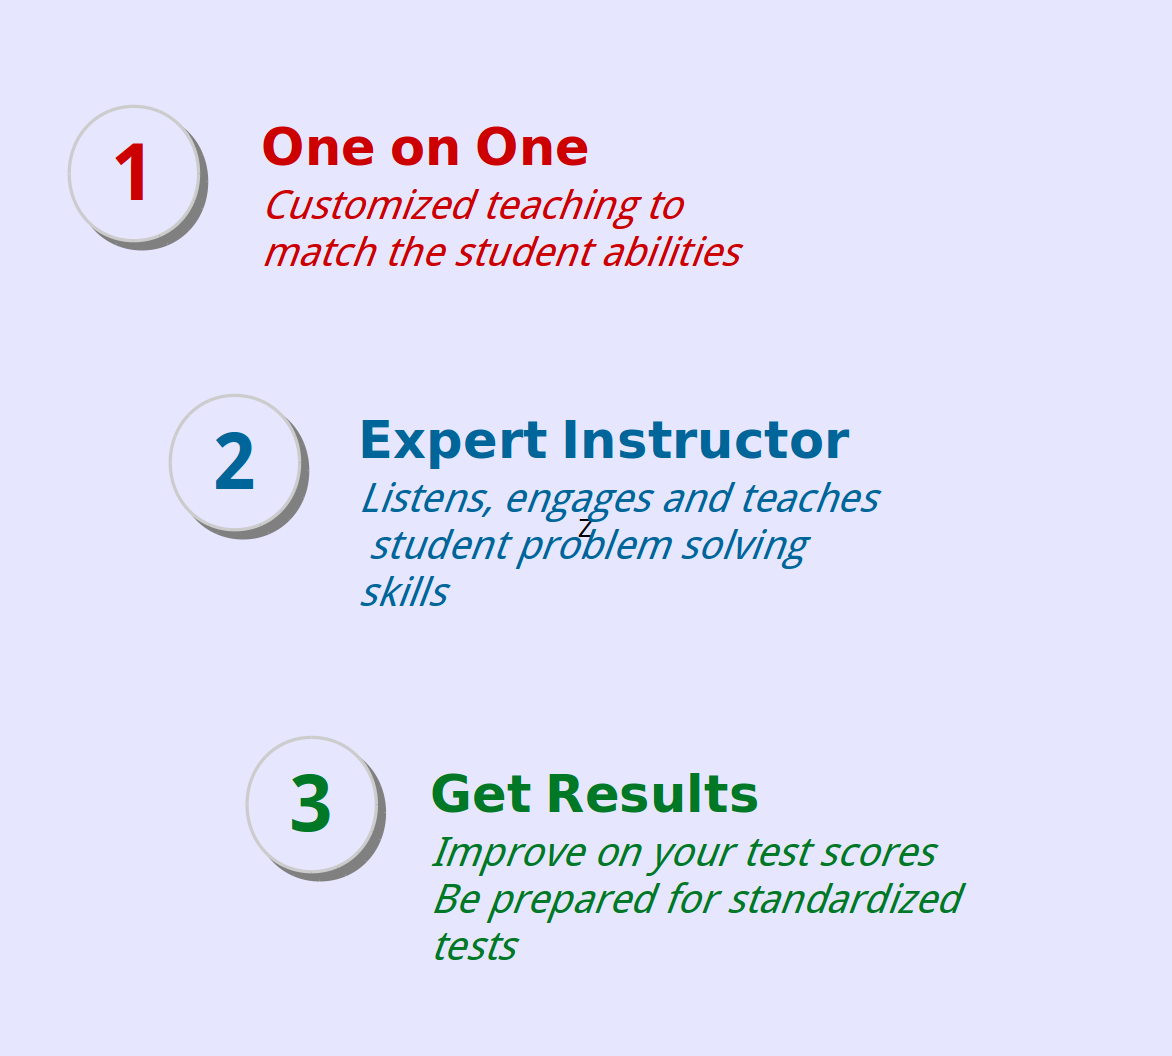
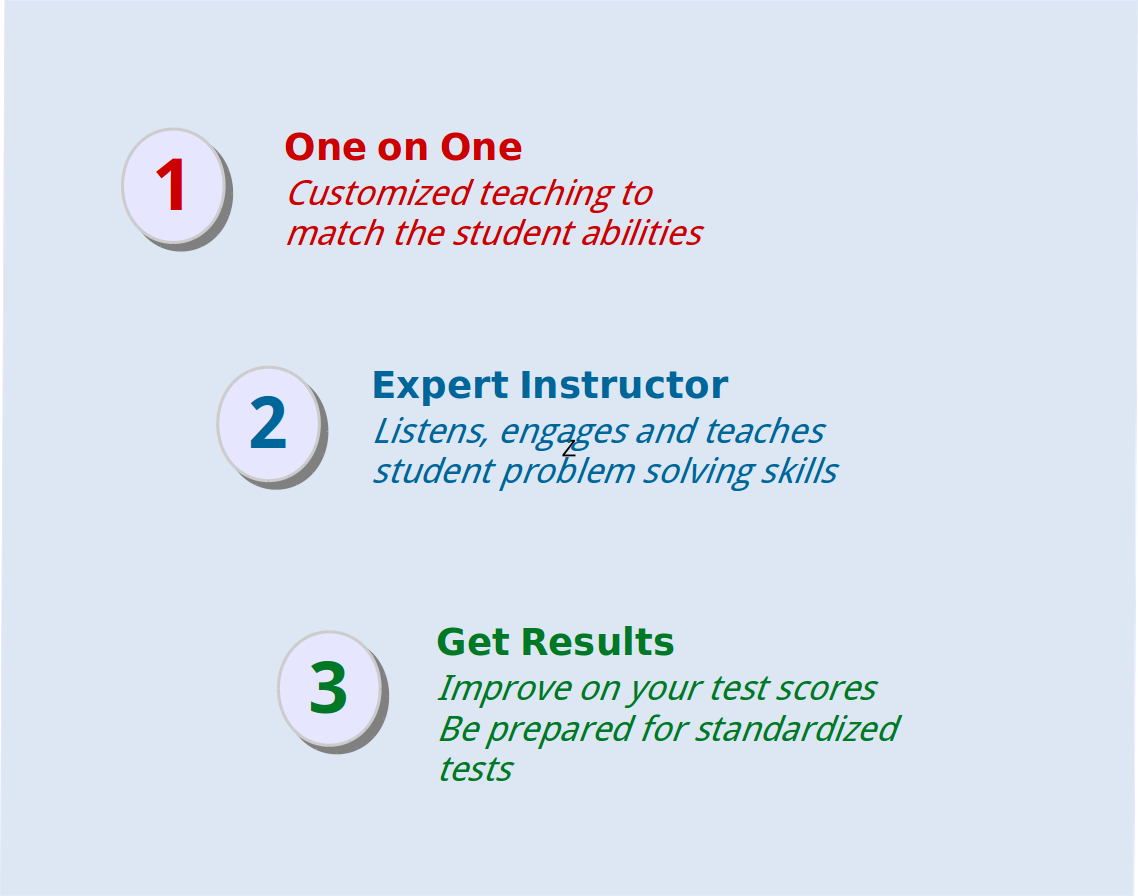
modified pages and made cleaner design

diff --git a/index.html b/index.html
@@ -37,7 +37,7 @@
     </div>
     <div class="collapse navbar-collapse" id="siteNavbar">
     <ul class="nav navbar-nav">
-      <li class="navLists" id="navHome"><a href="#">Home </a></li>
+      <li class="navLists"><a href="#">Home </a></li>
       <li class="navLists" ><a href="#benefitsPage">Benefits </a></li>
       <li class="navLists"><a href="#teachersPage">Teachers </a></li>
       <li class="navLists"><a href="#resourcesPage">Resources </a></li>
@@ -51,7 +51,7 @@
   </div>
   </nav>
 
-    <div class="row" style="position: relative; margin-top: 0%; z-index: 1; ">
+    <div class="row" style="position: relative; margin-top: 0%; z-index: 1; background-color: ##ccffff">
       <div class="col-xs-12" style="text-align: center;" id="titleImg">
         <br><br><br>
         <img src="AletheiaAcademy-Title.png" alt="Aletheia" style="width: 37%;">
@@ -59,7 +59,7 @@
       </div>
     </div>
 
-    <div class="row" style="position: relative; margin-top: 0%; z-index: -1 ">
+    <div class="row" style="position: relative; margin-top: 0%; z-index: -1; background-color: #ffd1b3 ">
 
       <div class="col-xs-12">
         <div id="Carousel-slideShow" class="carousel slide" data-ride="carousel">
@@ -158,15 +158,15 @@
           <p>13151 Emily Road,<br>
             Dallas, TX 75240 <br>
             PH: 469-988-1474 </p>
-            <img class="img-responsive" style="margin-left: 5%"; src="home.png" alt="Home icon"  />
+            <div class="glyphicon glyphicon-home"> </div>
+            <!--<img class="img-responsive" style="margin-left: 5%, margin-top: 3%;"; src="home.png" alt="Home icon"  /> -->
         </div>
       </div>
 
       <div class="col-xs-12 col-sm-6">
         <br><br>
           <div style="margin-left:7%;">
-          <iframe src="https://www.google.com/maps/embed?pb=!1m18!1m12!1m3!1d3348.9143277739413!2d-96.76932018525979!3d32.92686168092692!2m3!1f0!2f0!3f0!3m2!1i1024!2i768!4f13.1!3m3!1m2!1s0x864c2039a6cf98a5%3A0xa6467165b36dae92!2s13151+Emily+Rd%2C+Dallas%2C+TX+75240%2C+USA!5e0!3m2!1sen!2sca!4v1466112927119"
-          width="600" height="450" frameborder="0" style="border:0" allowfullscreen>
+          <iframe src="https://www.google.com/maps/embed?pb=!1m18!1m12!1m3!1d3348.9168842922777!2d-96.76874082828306!3d32.926794140326386!2m3!1f0!2f0!3f0!3m2!1i1024!2i768!4f13.1!3m3!1m2!1s0x864c2039a6cf98a5%3A0xa6467165b36dae92!2s13151+Emily+Rd%2C+Dallas%2C+TX+75240%2C+USA!5e0!3m2!1sen!2sca!4v1466979391924" width="600" height="450" frameborder="0" style="border:0" allowfullscreen></iframe>
           </iframe>
         </div>
       </div>

diff --git a/TutoringSite.css b/TutoringSite.css
@@ -5,14 +5,17 @@ body {
 }
 
 #benefitsPage {
-  background-color: #729fcf;
+  background-color: #dce7f3;
+  border-top: 7px solid lightgrey;
 }
 
-#contactsPage {
+#contactPage {
   background-color: lightyellow;
 }
 
-
+#homePage {
+  background-color: #00e699;
+}
 
 .navLists {
   background-color: "#efefef";
